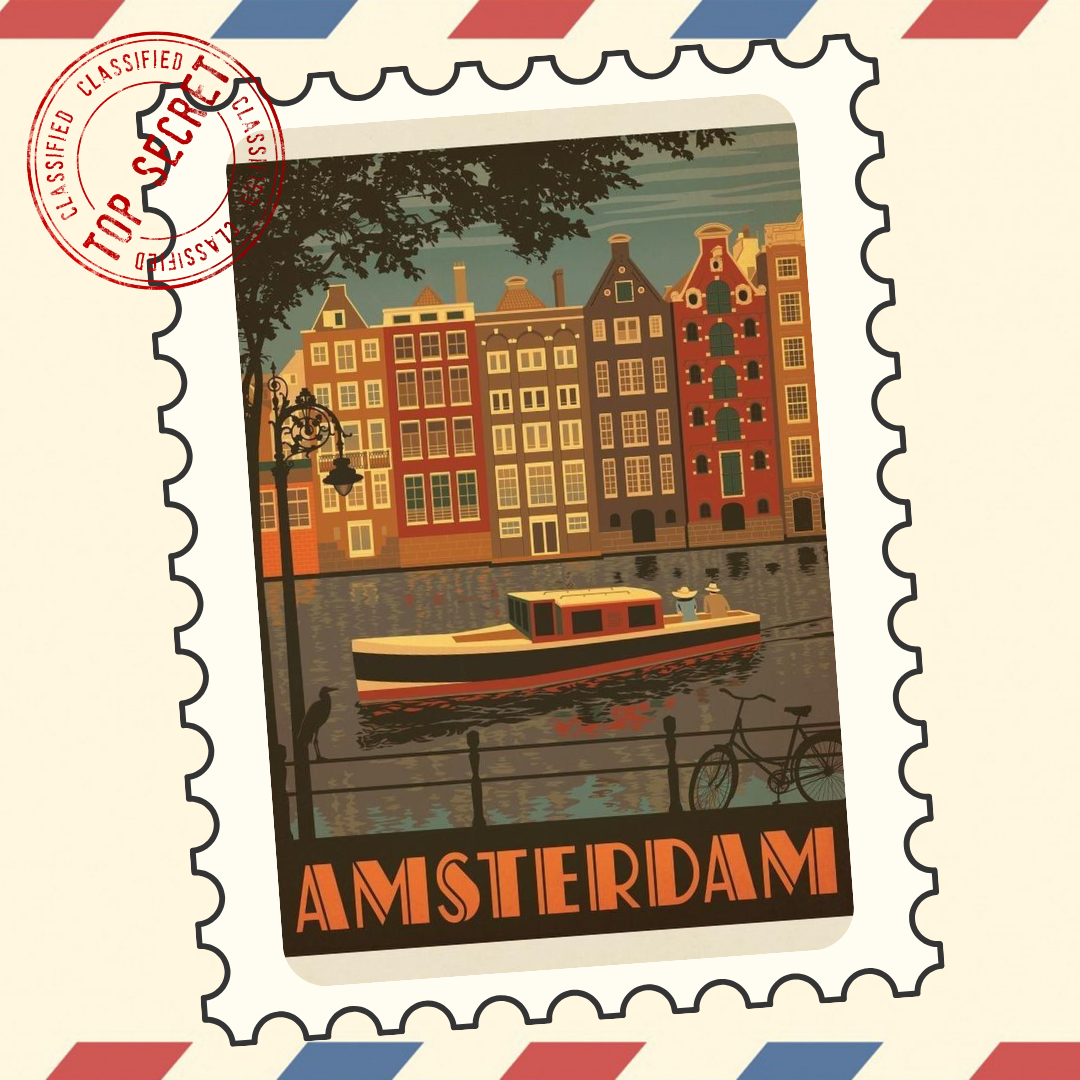
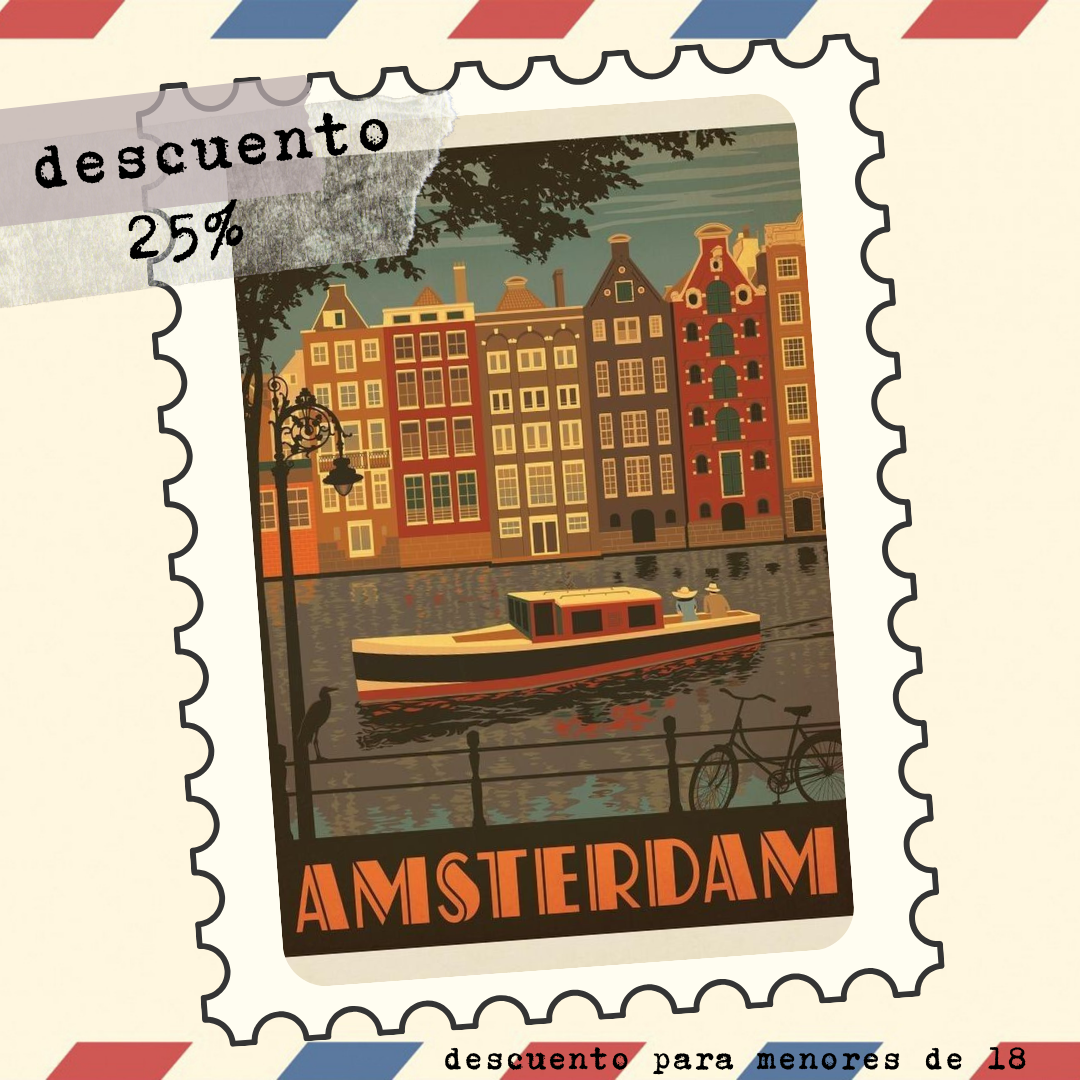
entrega

diff --git a/assets/css/style.css b/assets/css/style.css
@@ -1,4 +1,4 @@
-*{
+*{background-color: #FFF7E1;
     width: 100%;
     
     /* background-image:url();
@@ -13,10 +13,15 @@ body{
     display:flex;
     flex-direction: column;
     margin: 50px;
+    margin-left: 50px;
     width: 200vh;
     justify-content: center;
     align-items: center;
     background-color: rgb(246, 238, 226);
+}
+
+h1{
+    font-family: Courier;
 }
 div.principal1{
     display: flex;
@@ -37,9 +42,6 @@ header h1{
     margin-top: 100px;
     
 }
-
-
-
 section#banerInfo{
     display: flex;
     width: 100%;
@@ -62,7 +64,6 @@ section#banerInfo{
   }
   
   .paquete_cuadro {
-    display: flex; 
     flex-direction: column;
     margin: 20px;
     padding: 10px;
@@ -76,57 +77,40 @@ section#banerInfo{
     align-items:center;
     justify-content: center;
 }
-body{
-    margin:0;
-    padding:0;
-  }
-  
-  .btn{
-  cursor:pointer;
-    position:relative;
-    padding:10px 20px;
-    background:white;
-    font-size:28px;
-    border-top-right-radius:10px;
-    border-bottom-left-radius:10px;
-    transition:all 1s;
-    &:after,&:before{
-      content:" ";
-      width:10px;
-      height:10px;
-      position:absolute;
-      border :0px solid #fff;
-      transition:all 1s;
-      }
-    &:after{
-      top:-1px;
-      left:-1px;
-      border-top:5px solid black;
-      border-left:5px solid black;
-    }
-    &:before{
-      bottom:-1px;
-      right:-1px;
-      border-bottom:5px solid black;
-      border-right:5px solid black;
-    }
-    &:hover{
-      border-top-right-radius:0px;
-    border-bottom-left-radius:0px;
-    background:rgba(0,0,0,.5);
-    color:white;
-    }
-&:before,&:after{
-    width:100%;
-    height:100%;
-    border-color:white;
-} 
-    
-  .data-container{
-    background:#ffebee;
-    height:100vh;
-    display:flex;
-    justify-content:center;
-    align-items:center;
-  }
+p{
+    margin-top: 25px;
+    font-family: Courier;
 }
+  img .imgamsterdam{
+    margin-bottom: 30px;
+  }
+button { 
+    padding: 10px; 
+    background: light-gray; 
+    color: black; 
+    width: 200px;  
+    font-family: inherit;
+    font-size: inherit;
+    line-height: inherit;
+    border-radius:30px; 
+    margin-bottom: 10px; 
+  } 
+  button:hover { 
+    padding: 15px; 
+    background: rgba(237, 125, 33, 0.885); 
+    color: white; 
+  } 
+  button:active { 
+    padding: 15px; 
+    background: gray; 
+    color: white; 
+  } 
+
+  button,p{
+    margin-top: 15px;
+    
+  }
+  footer, p{
+    display: flex;
+    justify-content: center;
+  }

diff --git a/assets/css/StyleEmergentes.css b/assets/css/StyleEmergentes.css
@@ -1,39 +1,43 @@
-*{background-image: url(/assets/img/hoja\ negra.jpg);
-    background-repeat: no-repeat;
-   
-    
-    
-    /* background-image:url();
+*{  background-image:url(/assets/img/fondo\ paquetes.jpeg);
     background-repeat:no-repeat;
-    background-size: 100% 90%;
-    background-attachment: fixed; */
+    background-size: 100% 100%;
+    background-attachment: fixed;   
 }
 body{
      display:flex;
     flex-direction: column;
     align-items: center; 
     justify-content:center;
+    z-index: 1;
 }
 div.principal1{
     display: flex;
     width: 100vh;
-    border: solid;
+    
     text-align: center;
-    justify-content: space-around;
-    
-    
+    justify-content: space-around; 
 }
 form{
     display: flex;
+    margin-top: 30px;
     flex-direction: column;
     justify-content: center;
     align-items: center;
-    padding:30px;
-    margin-left: 35px;
-   
-    
+    font-size: small;
+    z-index: 1;     
+    margin-bottom: 25px;
+    margin-left: 30px;
 }
 
+input {
+    width: 200px;
+    height: 10px;
+    border-radius: 10px;
+    border:solid;
+    color:black;
+  }
+ 
+  
 h1{
     display: flex;
     justify-content: center;
@@ -41,19 +45,17 @@ h1{
     color:#4735cf;
     text-shadow: -3px 4px 6px rgba(0,0,0,.7);
 }
-
 .section1{
     display: flex;
     width: 80%;
-    flex-direction: row;
-
-    
+    flex-direction: row;  
 }
 button { 
     padding: 10px; 
     background: light-gray; 
-    color: black; 
+    color: white; 
     border-radius: 30px;
+    width: 200px;
   } 
   button:hover { 
     padding: 15px; 
@@ -62,6 +64,6 @@ button {
   } 
   button:active { 
     padding: 15px; 
-    background: gray; 
+    background: white; 
     color: white; 
   } 

diff --git a/index.html b/index.html
@@ -53,7 +53,6 @@ de las personas que se han registrado -->
             <span class="visually-hidden">Next</span>
           </button>
   
-          <span class="btn">Hover Me </span>
           </div>
        
       </div>
@@ -65,24 +64,26 @@ de las personas que se han registrado -->
      <section id="section2"> 
         <div class="paquete_cuadro" id="paquete1_cuadro">
             <img class="imgmexico" src="./assets/img/3.png" alt=""><br>
-            <p>Mexico</p><br><br>
+            <p>Mexico <br> paquete para 3 a 5 personas sin restricciones de edad <br> </p>
+            <p></p>
             <button type="button" id="mexico" onclick="abrirVentana_a()">seleccionar</button>
         </div>
             <div class="paquete_cuadro" id="paquete2_cuadro">
                 <img class="imgbrasil" src="./assets/img/2.png" alt=""><br>
-            <p>Brasil</p><br><br>
+            <p>Brasil <br> paquete para 1 a 2 personas para mayoresde 18 <br> </p></p>
             <button type="button" id="b" onclick="abrirVentana_b()">seleccionar</button>
         </div>
         <div class="paquete_cuadro" id="paquete3_cuadro">
             <img class="imgamsterdam" src="./assets/img/1.png" alt=""><br>
-            <p>Amsterdam</p><br><br>
+            <p> Amsterdam</strong>  <br>1 a 2 personas para todas las edades tine descuento</p></p>
             <button type="button" id="c" onclick="abrirVentana_c()">seleccionar</button>
+            
         </div>
     </section>
     </div>
 <footer>
 
-    <p>&copy; Todos los derechos reservados | Agencia de Viajes</p>
+    <p class="copy">&copy; Todos los derechos reservados | Agencia de Viajes</p>
 
 </footer>
     <script src="./assets/js/script.js"></script>

diff --git a/assets/js/cotizarBrasil.js b/assets/js/cotizarBrasil.js
@@ -25,8 +25,7 @@ function registerBrasil() {
             
             if (age < 18) {
                 alert("edad no valida o No cumple con la mayoría de edad (debe ser mayor de 18 años) ");
-            }
-            
+            }   
         } else {
             document.getElementById('name').value = '';
             document.getElementById('doc').value = '';
@@ -35,8 +34,7 @@ function registerBrasil() {
             let valorPersona = 4500000;
             totalPagar += valorPersona;
             resultText += `Información ingresada: Nombre: ${name}, Documento: ${doc}, Teléfono: ${phone}, Edad: ${age}. valor a pagar por persona: $${valorPersona}.<br>`;
-            contPersonas++;
-            
+            contPersonas++;  
         }
     }
 
